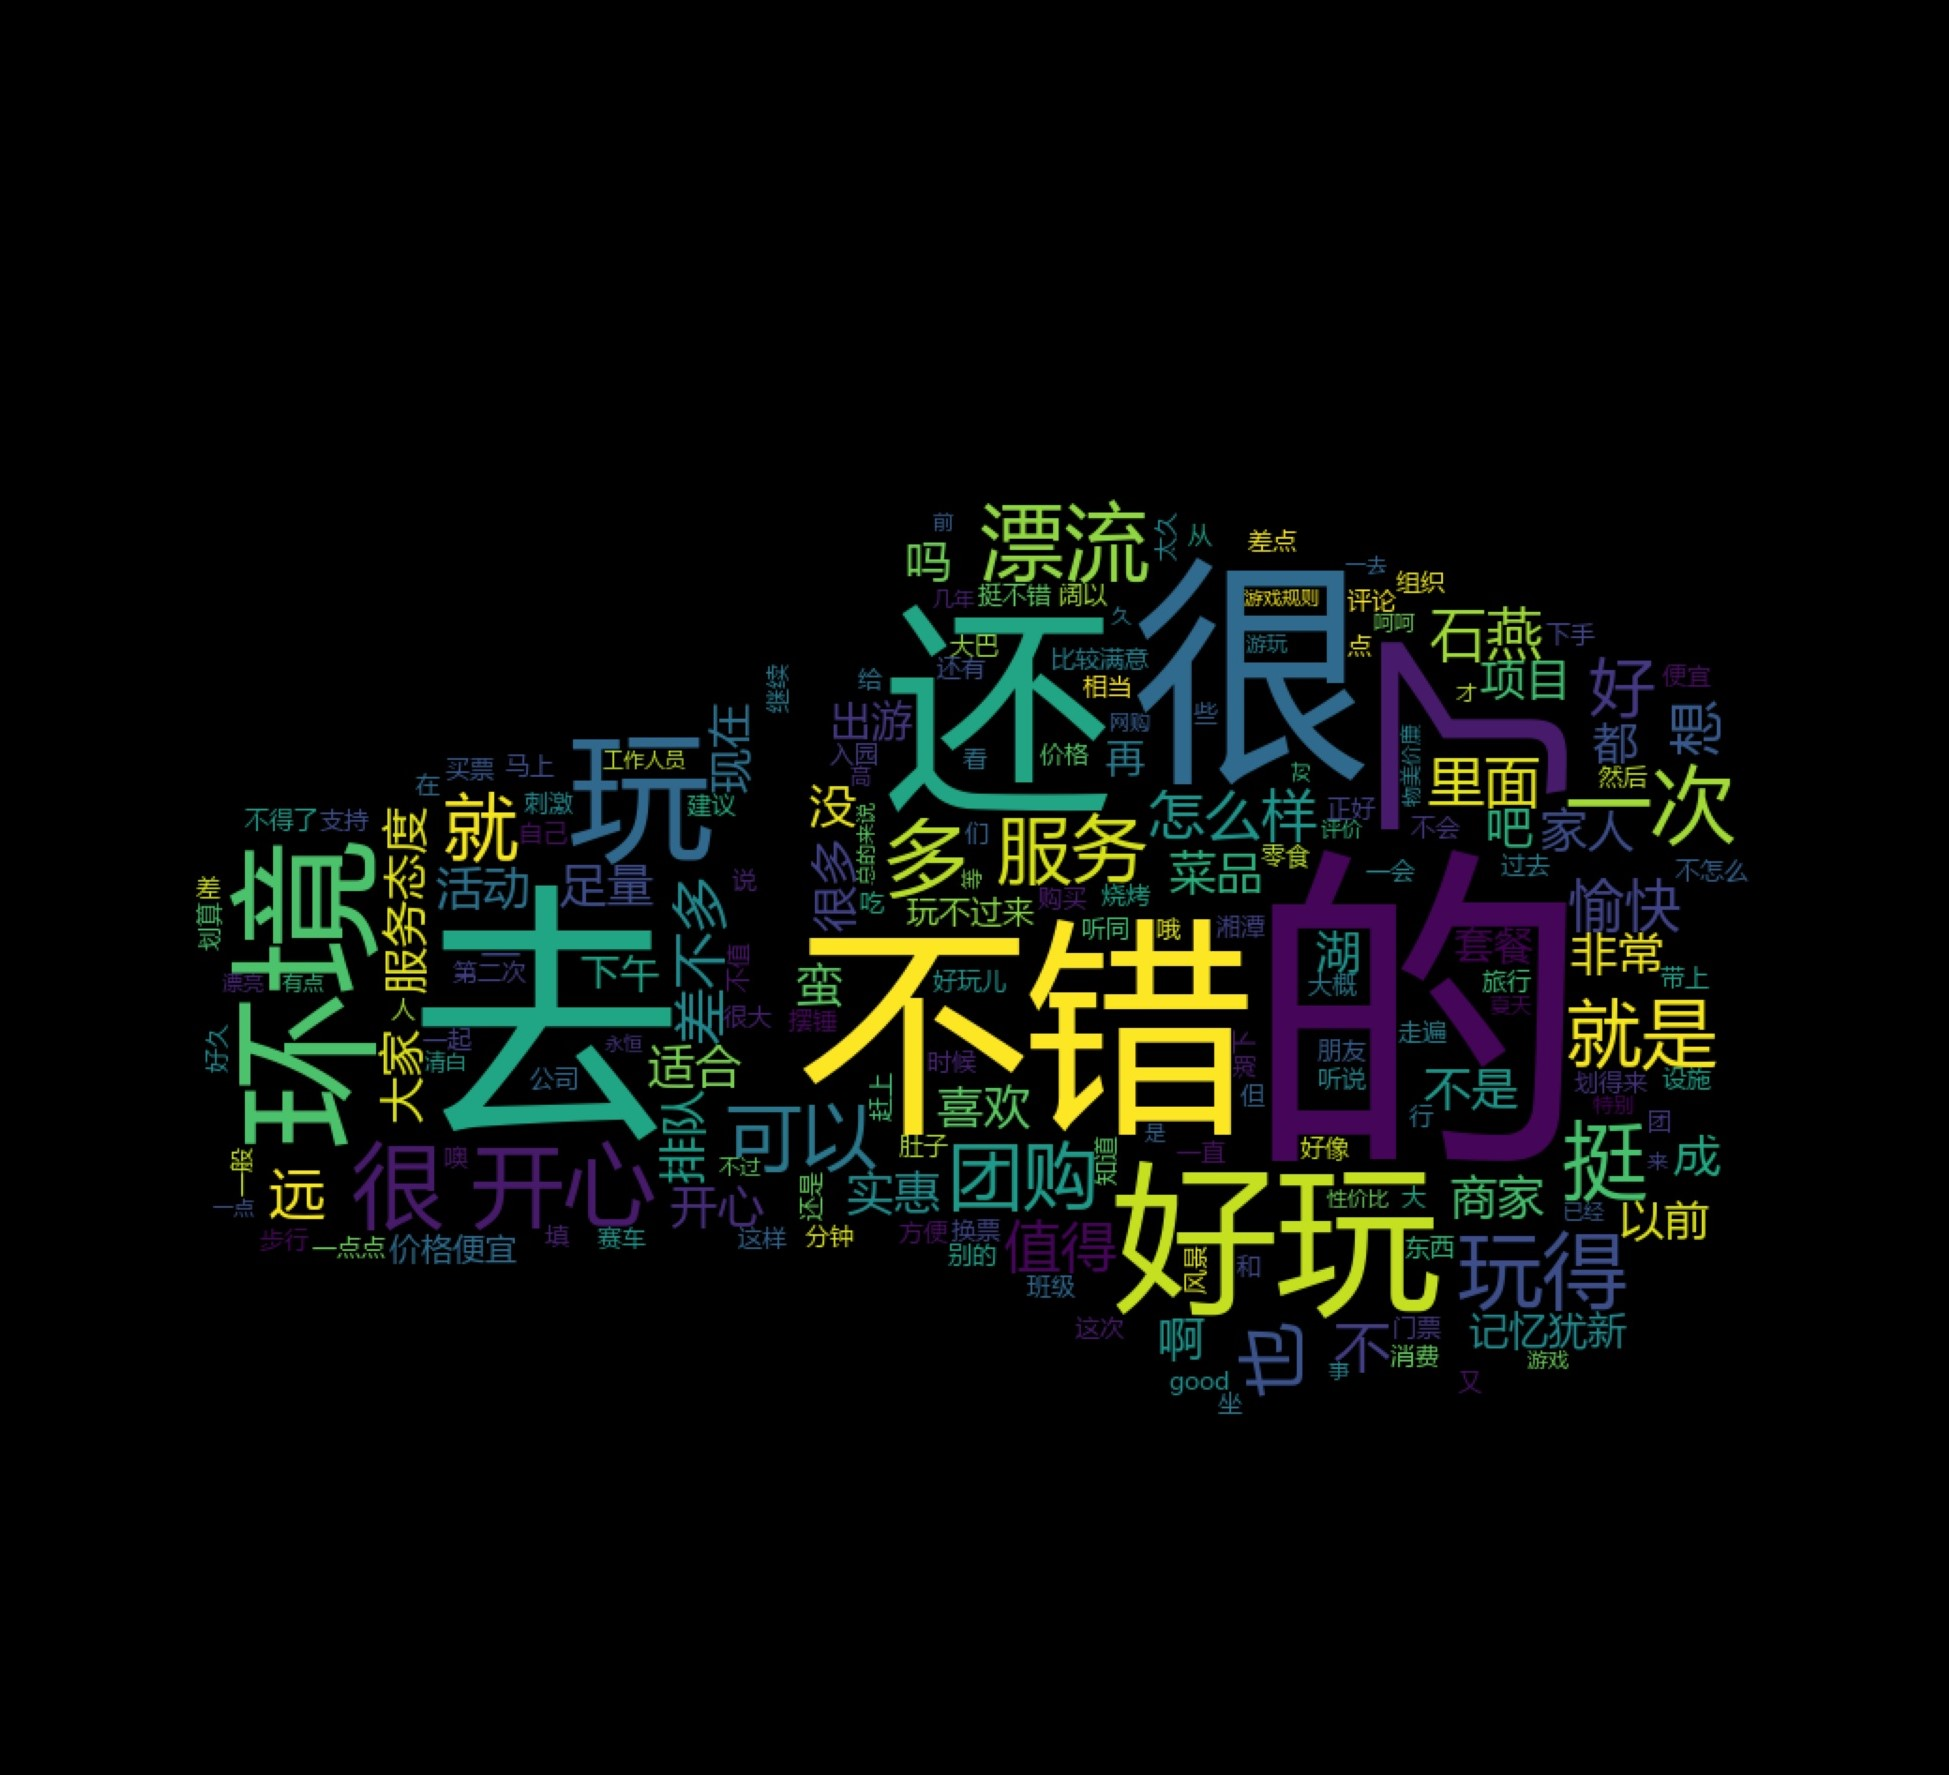
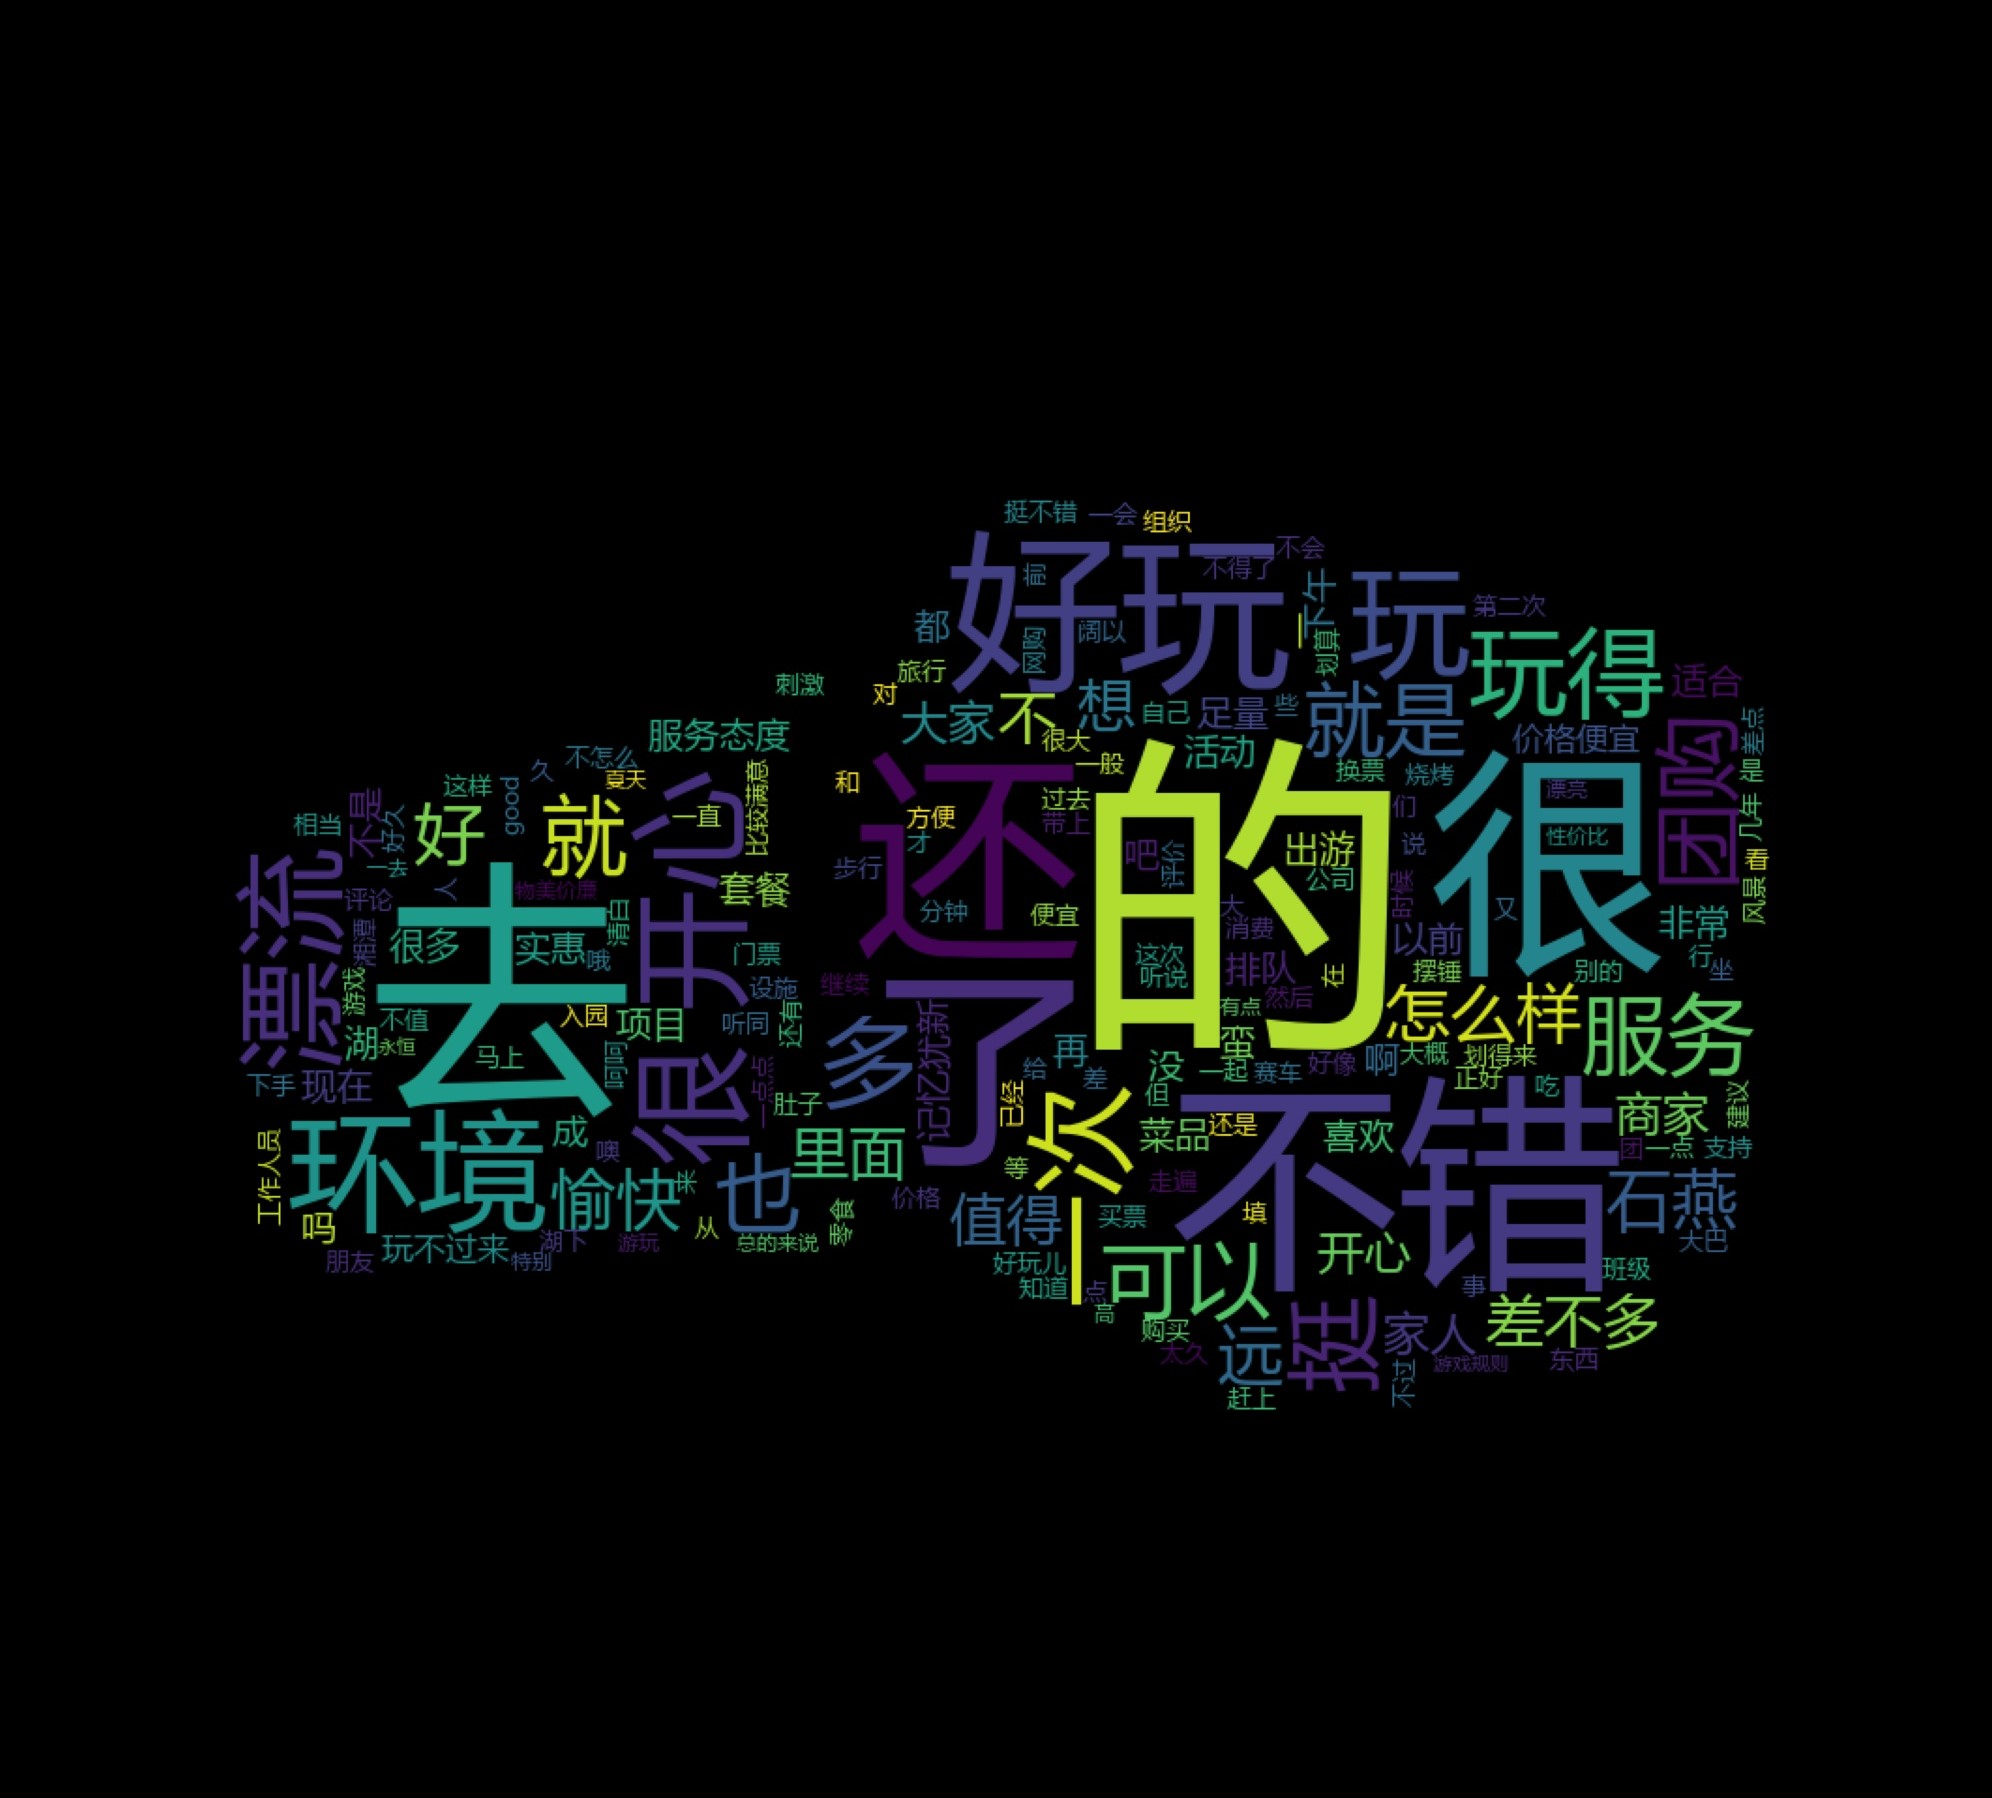
修复1

Changed region(s): [[0.0924, 0.2789, 0.8928, 0.8056]]

diff --git a/templates/test33.html b/templates/test33.html
@@ -89,7 +89,7 @@
 
             </div>
             <div class="left-bottom rightTop border">
-                <div class="title">拓展项目排行排行</div>
+                <div class="title">拓展项目排行</div>
                   <div class="echart wenzi">
                                     <div class="gun">
                                     <span>排名</span>
@@ -270,7 +270,7 @@
 
             </div>
             <div class="right-bottom rightTop border">
-                <div class="title">拓展场地排行排行</div>
+                <div class="title">拓展场地排行</div>
                   <div class="echart wenzi">
                                     <div class="gun">
                                     <span>排名</span>
@@ -393,7 +393,7 @@
      <li>
         <div class="fontInner clearfix">
             <span>
-                <b>12</b>
+                <b>13</b>
             </span>
             <span>四号会议室</span>
             <span>9</span>
@@ -403,7 +403,7 @@
                                              <li>
         <div class="fontInner clearfix">
             <span>
-                <b>12</b>
+                <b>14</b>
             </span>
             <span>金茂5号会议室</span>
             <span>7</span>

diff --git a/little/a.py b/little/a.py
@@ -50,4 +50,5 @@ plt.imshow(wc)
 plt.axis('off')     #是否显示坐标轴
 
 # plt.show()    #显示生成的词云图片
-plt.savefig('../static/meiXiaGu.jpg', dpi=500)
+plt.savefig('../static/meiXiaGu3.jpg', dpi=500)
+plt.show()
